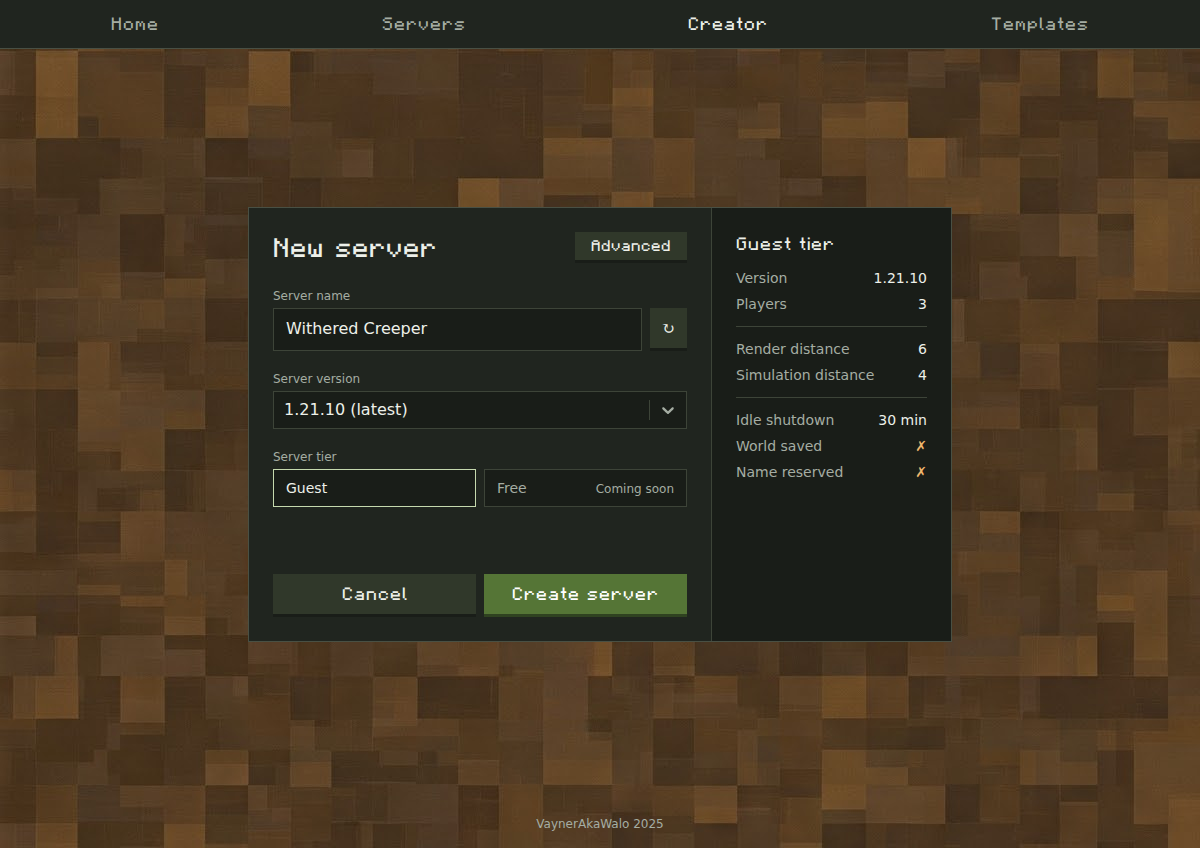
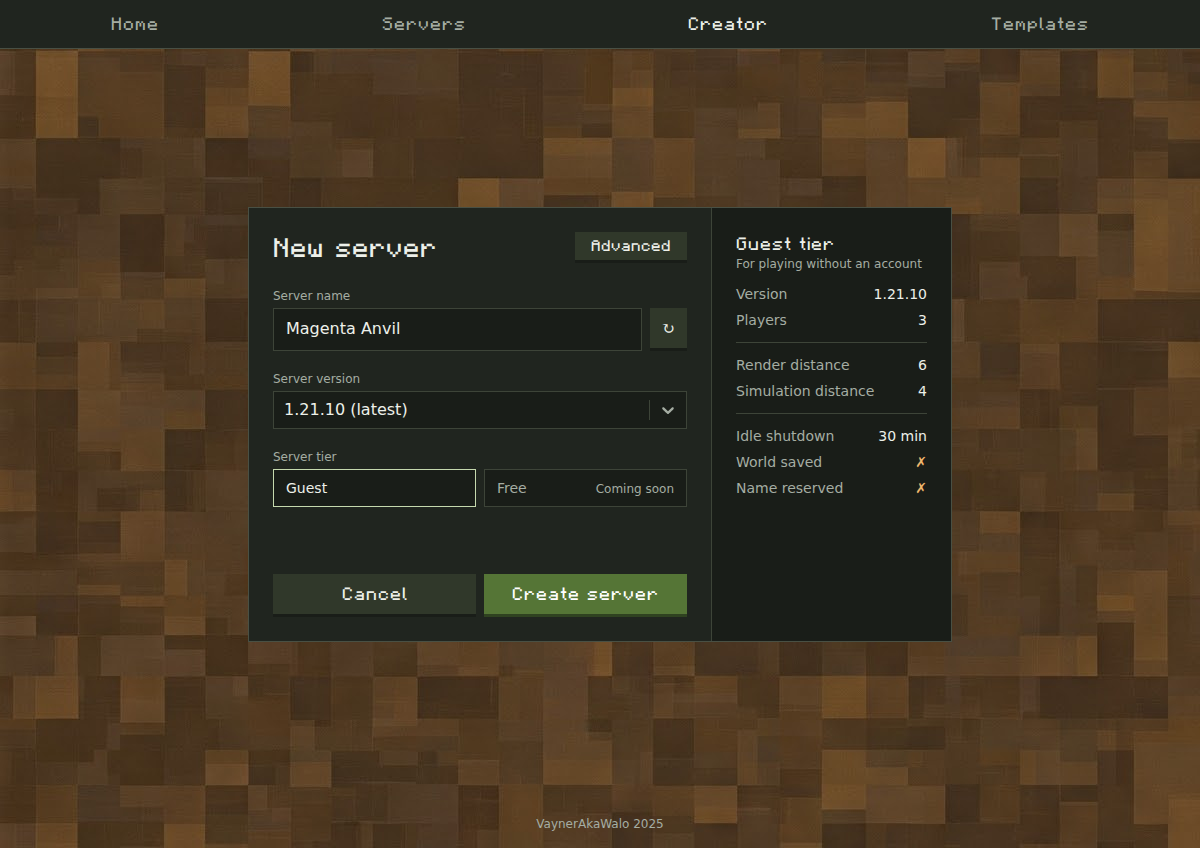
Show the tier description in the creation summary

Changed region(s): [[0.6167, 0.3066, 0.7708, 0.5825], [0.2158, 0.3679, 0.37, 0.3986]]

diff --git a/web/src/creator/ServerCreator.tsx b/web/src/creator/ServerCreator.tsx
@@ -214,7 +214,10 @@ export function ServerCreator() {
 
     return (
       <aside className="flex flex-col gap-3 border-t border-edge bg-inset p-6 sm:col-start-2 sm:row-span-2 sm:row-start-1 sm:w-60 sm:border-t-0 sm:border-l" aria-labelledby="server-summary-heading">
-        <h3 id="server-summary-heading" className="font-pixel">{tier.name} tier</h3>
+        <div className="flex flex-col">
+          <h3 id="server-summary-heading" className="font-pixel">{tier.name} tier</h3>
+          <p className="text-xs text-content-muted">{tier.description}</p>
+        </div>
         <dl className="flex flex-col text-sm">
           {groups.map(rows => (
             <div key={rows[0][0]} className="flex flex-col gap-1.5 border-t border-edge py-3 first:border-t-0 first:pt-0">
